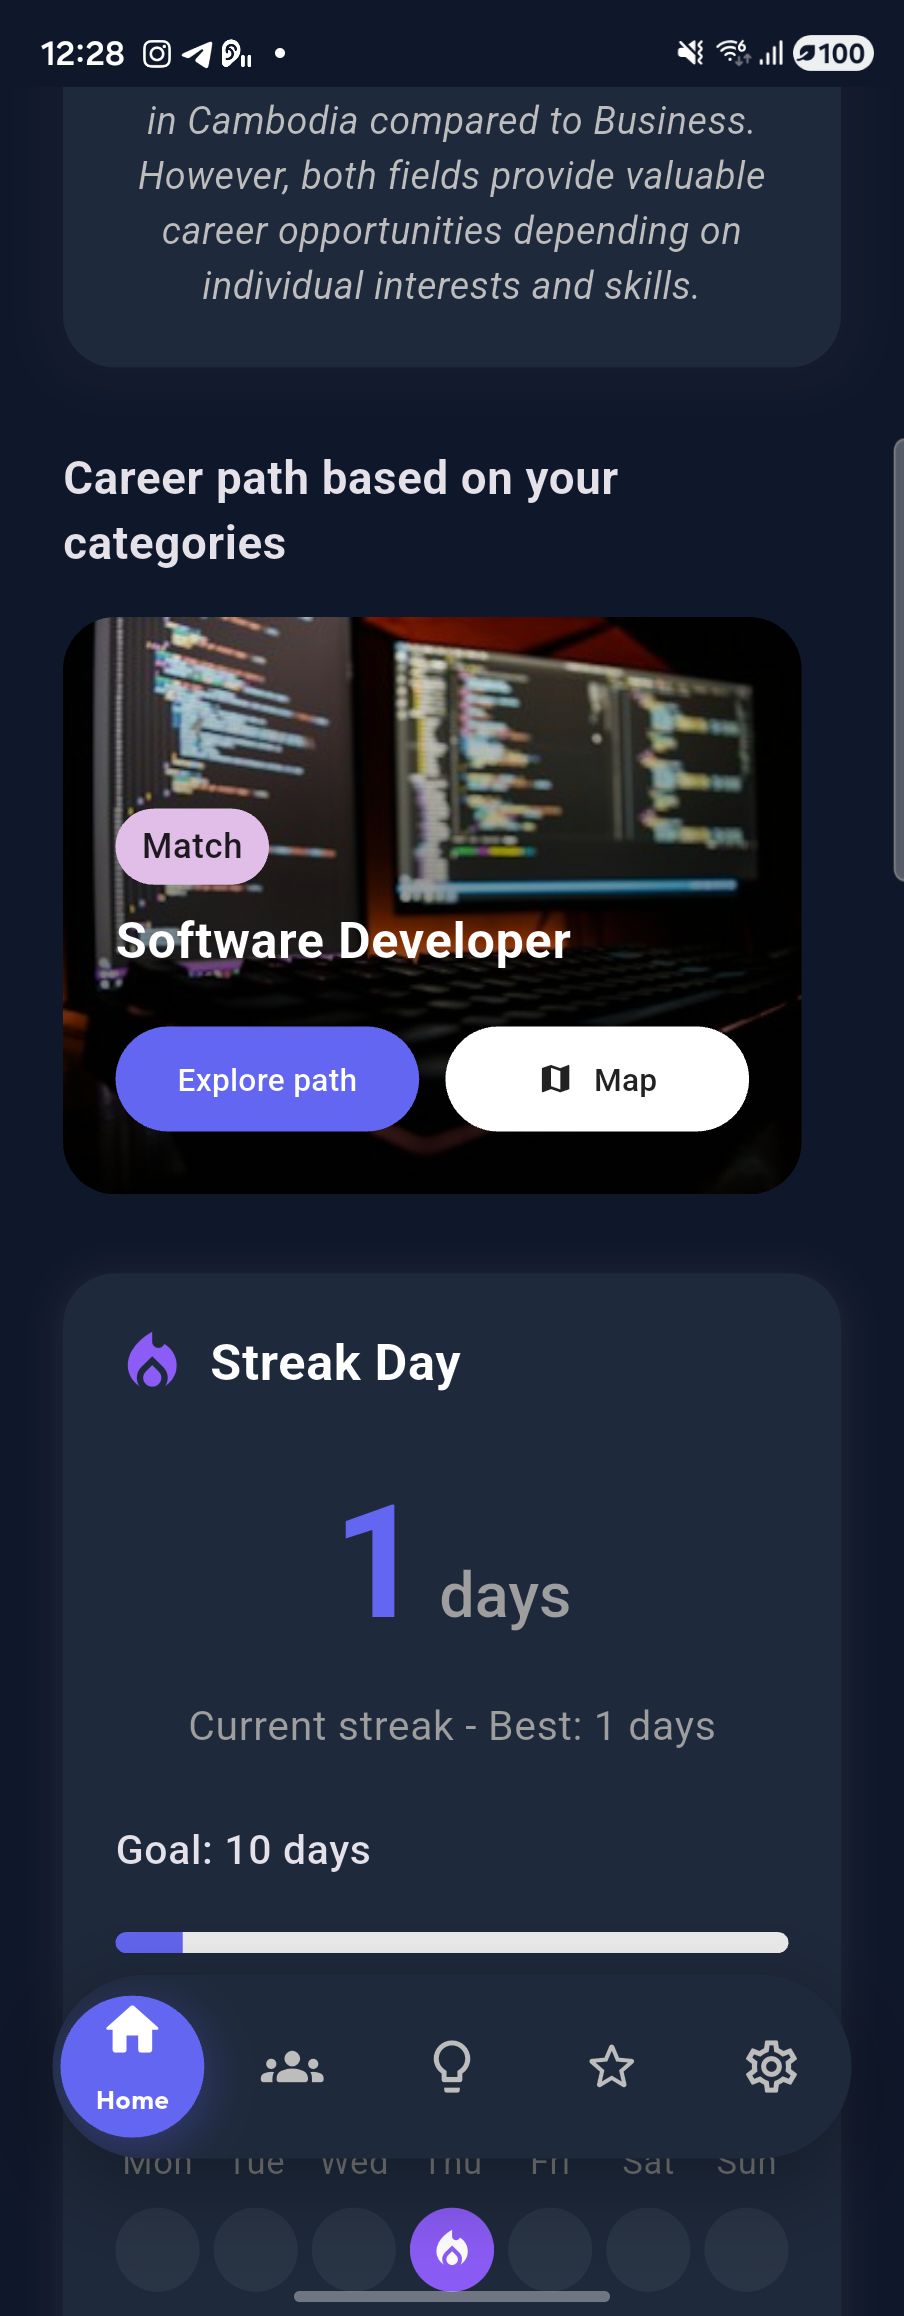
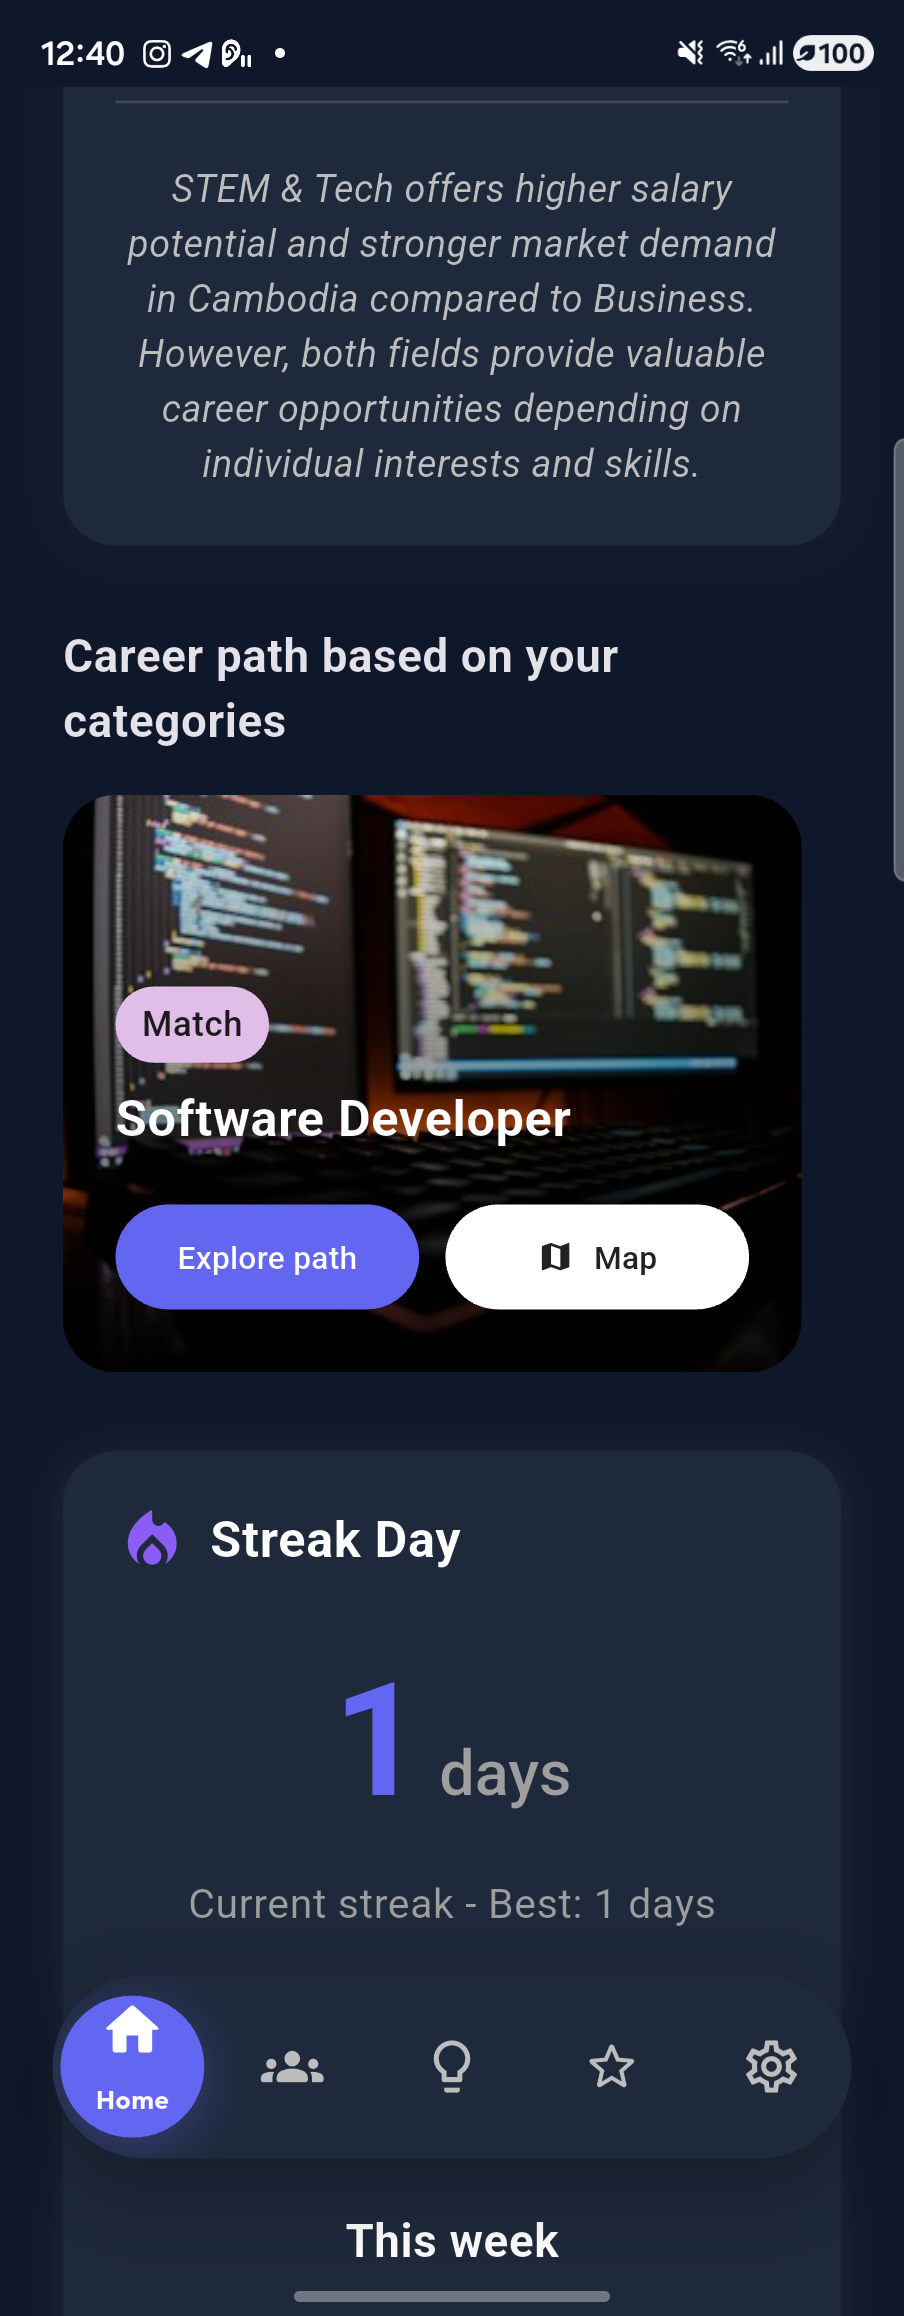
docs: add complete UI screenshot showcase across all app screens and modules

diff --git a/README.md b/README.md
@@ -1,115 +1,110 @@
-<div align="center">
+# 🌱 Evolve — AI-Powered Student Career, Scholarship & Personal Growth Platform
 
-# 🌱 Evolve — AI-Powered Student Career, Scholarship & Community Platform
-
-**Empowering Cambodian students to discover career paths, compare university majors, scout real-time scholarships, and grow together in an interactive student community.**
-
-[![Flutter](https://img.shields.io/badge/Flutter-3.x-02569B?style=for-the-badge&logo=flutter&logoColor=white)](https://flutter.dev)
-[![Dart](https://img.shields.io/badge/Dart-3.9+-0175C2?style=for-the-badge&logo=dart&logoColor=white)](https://dart.dev)
-[![Node.js](https://img.shields.io/badge/Node.js-Express_5-339933?style=for-the-badge&logo=node.js&logoColor=white)](https://nodejs.org)
-[![Supabase](https://img.shields.io/badge/Supabase-PostgreSQL-3ECF8E?style=for-the-badge&logo=supabase&logoColor=white)](https://supabase.com)
-[![Socket.io](https://img.shields.io/badge/Socket.io-Real--Time-010101?style=for-the-badge&logo=socket.io&logoColor=white)](https://socket.io)
-[![Firebase](https://img.shields.io/badge/Firebase-FCM_&_Auth-FFCA28?style=for-the-badge&logo=firebase&logoColor=black)](https://firebase.google.com)
-
-</div>
+**Evolve** is a full-stack mobile application designed to empower students in Cambodia and beyond to discover their ideal academic majors, explore personalized career roadmaps, find national and international scholarships, connect in a real-time student community hub, and track their personal growth through AI-guided reflection.
 
 ---
 
-## 📖 Overview
+## 📱 Complete UI Showcase
 
-**Evolve** is a full-stack mobile platform tailored for students in Cambodia and Southeast Asia. Navigating higher education, choosing between university majors, finding verified scholarships, and maintaining personal growth can be overwhelming. **Evolve** brings all of these pillars into a single, bilingual (**English & Khmer 🇰🇭**) mobile experience powered by generative AI and real-time social connectivity.
+### 1. 🏠 Home & AI Career Discovery
+Personalized dashboard featuring AI-generated major comparisons, career path matching, interactive career roadmaps, step-by-step skill maps, daily learning streaks, and curated scholarships.
+
+| AI Major Comparison | Career Path & Streak | Career Roadmap |
+| :---: | :---: | :---: |
+| <img src="assets/screenshots/home_screen.png" width="250" alt="Home Screen - Major Comparison" /> | <img src="assets/screenshots/home_careers.png" width="250" alt="Career Path Match & Streak" /> | <img src="assets/screenshots/career_roadmap.png" width="250" alt="Software Developer Roadmap" /> |
+
+| Step-by-Step Career Map | Weekly Streak & Scholarships | Scholarship Explorer |
+| :---: | :---: | :---: |
+| <img src="assets/screenshots/career_step_map.png" width="250" alt="Career Journey Map" /> | <img src="assets/screenshots/home_scholarships.png" width="250" alt="Weekly Streak & Scholarships" /> | <img src="assets/screenshots/scholarship_explorer.png" width="250" alt="Scholarship Explorer" /> |
 
 ---
 
-## 📱 UI Showcase
+### 2. 👥 Student Hub (Community) & Real-Time Messaging
+A collaborative social feed where students share insights, photos, videos, and tags (`#technology`, `#scholarship`, `#career`), alongside real-time direct messaging and notifications.
 
-<div align="center">
-  <table>
-    <tr>
-      <td align="center"><b>🏠 AI Major Comparison</b></td>
-      <td align="center"><b>🎯 Career Paths & Streak</b></td>
-      <td align="center"><b>👥 Student Hub (Community)</b></td>
-    </tr>
-    <tr>
-      <td><img src="assets/screenshots/home_screen.png" width="250" alt="Home Screen - AI Career Comparison"/></td>
-      <td><img src="assets/screenshots/home_careers.png" width="250" alt="Career Paths and Streak"/></td>
-      <td><img src="assets/screenshots/community_screen.png" width="250" alt="Student Hub Community"/></td>
-    </tr>
-    <tr>
-      <td align="center"><b>💡 Personal Growth & Insight</b></td>
-      <td align="center"><b>⭐ Saved Favorites</b></td>
-      <td align="center"><b>⚙ Profile & Localization</b></td>
-    </tr>
-    <tr>
-      <td><img src="assets/screenshots/insight_screen.png" width="250" alt="Insight Tab"/></td>
-      <td><img src="assets/screenshots/favorite_screen.png" width="250" alt="Favorites Tab"/></td>
-      <td><img src="assets/screenshots/profile_screen.png" width="250" alt="Profile & Settings Tab"/></td>
-    </tr>
-  </table>
-</div>
+| Student Hub (English) | Student Hub (Khmer) | Create Post |
+| :---: | :---: | :---: |
+| <img src="assets/screenshots/community_english.png" width="250" alt="Student Hub English" /> | <img src="assets/screenshots/community_screen.png" width="250" alt="Student Hub Khmer" /> | <img src="assets/screenshots/create_post.png" width="250" alt="Create Post Screen" /> |
+
+| Direct Messages | Notifications |
+| :---: | :---: |
+| <img src="assets/screenshots/chat_rooms.png" width="250" alt="Messages Screen" /> | <img src="assets/screenshots/notifications_screen.png" width="250" alt="Notifications Screen" /> |
+
+---
+
+### 3. 💡 Insight & Personal Growth Suite
+Self-discovery and mental well-being toolkit featuring daily quotes, growth analytics, a 70-question NERIS Personality Test, Vision Board, Reflection Journal, Kawaii Emoticon Express, Future Milestone Map, and **AI Mind Chat** powered by Google Gemini.
+
+| Insight Dashboard | Personal Growth Toolkit | Personality Test (NERIS) |
+| :---: | :---: | :---: |
+| <img src="assets/screenshots/insight_screen.png" width="250" alt="Insight Dashboard" /> | <img src="assets/screenshots/insight_tools.png" width="250" alt="Insight Tools Grid" /> | <img src="assets/screenshots/personality_test.png" width="250" alt="Personality Test" /> |
+
+| Vision Board | Reflection Journal | Emoticon Vibe Picker |
+| :---: | :---: | :---: |
+| <img src="assets/screenshots/vision_board.png" width="250" alt="Vision Board" /> | <img src="assets/screenshots/reflection_journal.png" width="250" alt="Reflection Journal" /> | <img src="assets/screenshots/emoticon_screen.png" width="250" alt="Emoticon Screen" /> |
+
+| Future Milestone Map | AI Mind Chat (Gemini 2.0) |
+| :---: | :---: |
+| <img src="assets/screenshots/journey_map.png" width="250" alt="Future Map" /> | <img src="assets/screenshots/ai_mind_chat.png" width="250" alt="AI Mind Chat" /> |
+
+---
+
+### 4. ⭐ Favorites, Profile, Subscriptions & Localization (EN / KH)
+Seamless bilingual support (**English** & **Khmer / ភាសាខ្មែរ**), dark/light aesthetic modes, saved scholarships & posts, account privacy controls, and subscription management.
+
+| Favorites (English) | Favorites (Khmer) | Subscription & Pricing |
+| :---: | :---: | :---: |
+| <img src="assets/screenshots/favorite_english.png" width="250" alt="Favorites English" /> | <img src="assets/screenshots/favorite_screen.png" width="250" alt="Favorites Khmer" /> | <img src="assets/screenshots/pricing_screen.png" width="250" alt="Pricing Screen" /> |
+
+| Profile (English) | Profile (Khmer) | Settings & Privacy |
+| :---: | :---: | :---: |
+| <img src="assets/screenshots/profile_english.png" width="250" alt="Profile English" /> | <img src="assets/screenshots/profile_screen.png" width="250" alt="Profile Khmer" /> | <img src="assets/screenshots/account_privacy.png" width="250" alt="Account Privacy" /> |
 
 ---
 
 ## ✨ Key Features
 
-### 1. 🧭 AI Career Roadmaps & Head-to-Head Major Comparison
-- **Personalized Interest Onboarding**: Students select from **7 core categories** (*STEM & Tech, Business, Health, Education, Craftsmanship, Public Service, Arts & Design*) and **42 specialized sub-interests**.
-- **AI Major Comparison**: Head-to-head comparison of two career sectors tailored to the Cambodian job market (realistic USD entry-level salary ranges, local market demand, work-life balance, and core technical skills).
-- **Interactive Career Roadmaps & Step Maps**: Step-by-step progression from Junior to Executive roles, required degrees/bootcamps, curated learning resources, and top hiring companies in Cambodia.
-
-### 2. 🎓 Real-Time AI Scholarship Scouting
-- **National & International Opportunities**: Automatically scouts and caches scholarships from top Cambodian universities (*RUPP, ITC, NUM, AUPP, CADT, Paragon, CamEd, RULE, etc.*) alongside global programs (*Fulbright, Chevening, MEXT, Australia Awards, ASEAN*).
-- **Automated Link Verification**: Verifies application deep links to prevent dead URLs and displays eligibility checklists, step-by-step application processes, and provider facts.
-
-### 3. 👥 Student Hub & Real-Time Chat
-- **Community Feed**: Create rich multimedia posts (multi-image galleries, tags, view counters), like/reply to nested comments, and search by users, posts, or tags.
-- **Real-Time Messaging (`Socket.IO`)**: 1-on-1 conversations, online/offline presence indicators, read receipts, message replies/edits/deletions, voice notes with audio waveforms, custom user-created stickers, and stranger message request filtering.
-- **Push Notifications (`Firebase Cloud Messaging`)**: Instant push alerts with deep-linking directly to chat rooms, post comments, likes, and friend requests.
-
-### 4. 💡 Insight & Personal Growth Suite
-- **AI Mind Guide**: Context-aware AI wellness & academic mentor that tailors advice to the student's chosen interests and passions.
-- **Vision Board & Journaling**: Interactive staggered grid Vision Board, personal story journaling, personality self-discovery quiz, and daily login streak tracking.
-
-### 5. 🌐 Full Bilingual Support & Dark/Light Aesthetics
-- **English & Khmer (`ភាសាខ្មែរ`)**: Complete localization across all screens and AI prompts.
-- **Adaptive Dark & Light Mode**: Smooth glassmorphic UI with custom animated navigation and glowing micro-interactions.
+- **🎯 AI Career & Major Discovery**
+  - Onboarding interest & sub-interest assessment across 7 core domains (*STEM & Tech, Business, Health, Education, Craftsmanship, Public Service, Arts & Design*).
+  - Side-by-side AI major & category comparison (salary ranges, market demand, work/life balance, and required skills).
+  - Step-by-step career roadmaps and interactive career journey maps.
+- **🎓 Scholarship Explorer**
+  - Filterable national and international scholarships tailored to the user's selected categories, complete with benefit breakdowns and deadlines.
+- **👥 Student Hub (Community) & Real-Time Chat**
+  - Create and browse posts with image/video attachments, tags, views, likes, comments, and bookmarking.
+  - Real-time 1-on-1 messaging, typing indicators, and community notifications powered by **Socket.IO**.
+- **💡 Insight & Personal Growth**
+  - **Personality Test**: 70-question NERIS Type Explorer assessment to uncover strengths and career alignment.
+  - **Vision Board & Future Map**: Visual goal setting and milestone tracking with progress percentages.
+  - **Reflection Journal & Emoticon**: Daily journaling and mood/vibe expression.
+  - **AI Mind Chat**: Conversational AI mentor powered by **Google Gemini** & **Groq** for personalized academic and emotional guidance.
+- **🌏 Bilingual Localization & Theme Customization**
+  - Full **English (`en`)** and **Khmer (`km`)** localization (`flutter_localizations` & ARB translations).
+  - Adaptive **Dark Mode** and **Light Mode** glassmorphic UI.
 
 ---
 
 ## 🛠 Tech Stack
 
-### Frontend (`/frontend`)
-| Category | Technology |
+### Frontend (`frontend/`)
+| Layer | Technology |
 | :--- | :--- |
-| **Framework** | Flutter (Dart `^3.9.2`) |
-| **Networking & API** | `dio`, `http`, `socket_io_client` (Real-time WebSockets) |
-| **Authentication** | JWT (`flutter_secure_storage`), `google_sign_in`, `flutter_facebook_auth` |
-| **Push Notifications** | `firebase_core`, `firebase_messaging`, `flutter_local_notifications` |
-| **Media & Audio** | `image_picker`, `video_player`, `chewie`, `record`, `audioplayers`, `audio_waveforms`, `photo_view` |
-| **UI & Animations** | `google_fonts` (Outfit, Raleway), `flutter_staggered_grid_view`, `reorderable_grid_view`, `swipe_to` |
-| **Localization** | `flutter_localizations`, `intl` (ARB-based English & Khmer translations) |
+| **Framework** | Flutter (Dart `^3.10.4`) |
+| **State & Storage** | `shared_preferences`, `flutter_secure_storage` |
+| **Networking & Real-Time** | `dio`, `http`, `socket_io_client` |
+| **Authentication** | `firebase_core`, `firebase_auth`, `google_sign_in`, `flutter_facebook_auth` |
+| **Media & UI** | `image_picker`, `video_player`, `chewie`, `cached_network_image`, `flutter_svg`, `google_fonts` |
+| **Localization** | `flutter_localizations`, `intl` (English & Khmer) |
 
-### Backend (`/backend`)
-| Category | Technology |
+### Backend (`backend/`)
+| Layer | Technology |
 | :--- | :--- |
-| **Runtime & Server** | Node.js, Express `^5.2.1` |
-| **Database** | **Supabase (PostgreSQL)** via `pg` connection pooling & smart SQL dialect adapter |
-| **Real-Time Engine** | `socket.io` (`^4.8.3`) for live messaging, typing/read receipts, and user presence |
-| **AI Integration** | **OpenRouter API** (`openai/gpt-4o-mini` & `google/gemini-2.0-flash-lite`) |
-| **Authentication & Security** | `jsonwebtoken` (JWT), `bcryptjs`, `google-auth-library`, `passport-google-oauth20` |
-| **Media Cloud Storage** | **Cloudinary** (`cloudinary`, `multer`) for profile pictures, post media, and custom stickers |
-| **Email & Push** | **Resend** (`resend`) / Nodemailer for OTP verification & **Firebase Admin SDK** (`firebase-admin`) |
-
----
-
-## 🗄 Database Architecture (Supabase PostgreSQL)
-
-The backend manages **23 relational tables** automatically provisioned via `backend/scripts/migrate_supabase.js`:
-- **Identity & Auth**: `users`, `otps`, `user_daily_logins`
-- **Personalization**: `interests`, `sub_interests`, `user_interests`, `user_sub_interests`
-- **Community & Social**: `posts`, `post_likes`, `comments`, `comment_likes`, `friendships`, `user_blocks`, `user_reports`, `activities`, `notifications`
-- **Real-Time Chat**: `conversations`, `conversation_participants`, `messages`, `stickers`
-- **AI & Discovery**: `scholarships`, `career_cache`, `favorites`
+| **Runtime & Framework** | Node.js, Express.js (`^5.2.1`) |
+| **Database** | **Supabase (PostgreSQL)** via `pg` connection pool |
+| **AI Services** | Google Gemini (`@google/genai`), Groq SDK (`groq-sdk`), OpenAI SDK |
+| **Real-Time Engine** | `socket.io` |
+| **Authentication & Security** | JWT (`jsonwebtoken`), `bcryptjs`, `google-auth-library` |
+| **Media & Email** | Cloudinary (`cloudinary`, `multer`), Resend (`resend`), `nodemailer` |
 
 ---
 
@@ -120,85 +115,67 @@ Evolve/
 ├── assets/
 │   └── screenshots/          # App UI screenshots for documentation
 ├── backend/
-│   ├── config/               # Database (Supabase PostgreSQL), Firebase Admin, Passport config
-│   ├── controllers/          # Route handlers (Auth, AI, Career, Chat, Community, Scholarships, etc.)
-│   ├── middleware/           # JWT authentication middleware
-│   ├── routes/               # Express REST API route definitions
-│   ├── scripts/              # Database schema migration & seeding scripts (migrate_supabase.js)
-│   ├── utils/                # OTP mail service (Resend + local dev fallback)
-│   └── server.js             # Express + Socket.IO entrypoint
+│   ├── config/               # Database adapter (Supabase PostgreSQL) & Cloudinary config
+│   ├── controllers/          # Route controllers (Auth, Home, Community, Chat, AI, Insight)
+│   ├── middleware/           # JWT authentication & upload middleware
+│   ├── models/               # Database models & queries
+│   ├── routes/               # Express REST API routes
+│   ├── scripts/              # Database migration & seeding scripts
+│   ├── services/             # AI & background services
+│   ├── utils/                # Mail, OTP, and helper utilities
+│   └── server.js             # Express + Socket.IO entry point
 └── frontend/
-    ├── android/              # Android native configuration & Gradle scripts
-    ├── assets/               # App icons, images, and static assets
-    └── lib/
-        ├── generated/l10n/   # Auto-generated English & Khmer localization classes
-        ├── l10n/             # ARB translation files (app_en.arb, app_km.arb)
-        ├── models/           # Dart data models (Interest, Vision, Journal, Sticker, etc.)
-        ├── screens/          # UI screens (Home, Community, Chat, Insight, Favorites, Profile)
-        ├── services/         # API client (Dio), AuthService, SocketService, NotificationService
-        └── main.dart         # Application root, theme provider, and deep-link router
+    ├── android/              # Android native configuration
+    ├── assets/               # Icons, images, and static assets
+    ├── lib/
+    │   ├── config/           # App constants & environment configuration
+    │   ├── generated/        # Auto-generated localization classes
+    │   ├── l10n/             # English (app_en.arb) & Khmer (app_km.arb) translations
+    │   ├── models/           # Dart data models
+    │   ├── screens/          # UI screens (Auth, Home, Community, Insight, Favorites, Profile)
+    │   ├── services/         # API, Auth, Socket, and Storage services
+    │   ├── theme/            # Dark/Light theme definitions & color palette
+    │   ├── widgets/          # Reusable UI components & glassmorphic nav bar
+    │   └── main.dart         # Flutter application entry point
+    └── pubspec.yaml          # Flutter dependencies & asset declarations
 ```
 
 ---
 
-## 🚀 Getting Started (Local Development)
+## 🚀 Getting Started
 
-### 1. Prerequisites
-- **Flutter SDK** (`>=3.9.2`)
+### Prerequisites
+- **Flutter SDK** (`>=3.10.4`)
 - **Node.js** (`>=18.x`)
-- **Supabase** PostgreSQL Database (or any PostgreSQL instance)
-- **Android Device or Emulator** (with `adb` installed)
+- **PostgreSQL / Supabase** database
 
-### 2. Backend Setup
+### 1. Backend Setup
 ```bash
 cd backend
 npm install
 ```
-
-Create a `backend/.env` file with your credentials (never commit `.env` to Git):
+Create a `.env` file in `backend/` (never committed to Git):
 ```env
 PORT=5000
 DATABASE_URL=postgresql://<user>:<password>@<host>:6543/postgres
 JWT_SECRET=your_jwt_secret
-GOOGLE_CLIENT_ID=your_google_client_id
-GOOGLE_CLIENT_SECRET=your_google_client_secret
+GEMINI_API_KEY=your_gemini_api_key
+GROQ_API_KEY=your_groq_api_key
 CLOUDINARY_CLOUD_NAME=your_cloud_name
 CLOUDINARY_API_KEY=your_cloudinary_key
 CLOUDINARY_API_SECRET=your_cloudinary_secret
-OPENROUTER_API_KEY=your_openrouter_key
-AI_CHAT_API_KEY=your_openrouter_chat_key
-# Optional for production email delivery (falls back to console OTP in local dev):
-RESEND_API_KEY=re_your_resend_key
 ```
-
-Run the database migration to create all tables and seed interests:
+Run the database schema migration and seed initial categories:
 ```bash
 node scripts/migrate_supabase.js
-```
-
-Start the development server:
-```bash
 npm run dev
 ```
 
-### 3. Frontend Setup
+### 2. Frontend Setup
 ```bash
 cd frontend
 flutter pub get
-```
-
-If testing on a physical Android device over USB, forward port `5000`:
-```bash
-adb reverse tcp:5000 tcp:5000
-```
-
-Run the Flutter app:
-```bash
+flutter gen-l10n
 flutter run
 ```
-
----
-
-## 🔒 Security & Repository Hygiene
-- All sensitive keys (`backend/.env`, `firebase-service-account.json`, API keys, and database credentials) are strictly excluded via `.gitignore`.
-- OAuth tokens and user sessions are stored in encrypted device storage via `flutter_secure_storage`.
+*(Tip: When debugging on a physical Android device over USB, run `adb reverse tcp:5000 tcp:5000` so the device can reach your local backend server at `http://127.0.0.1:5000`.)*
